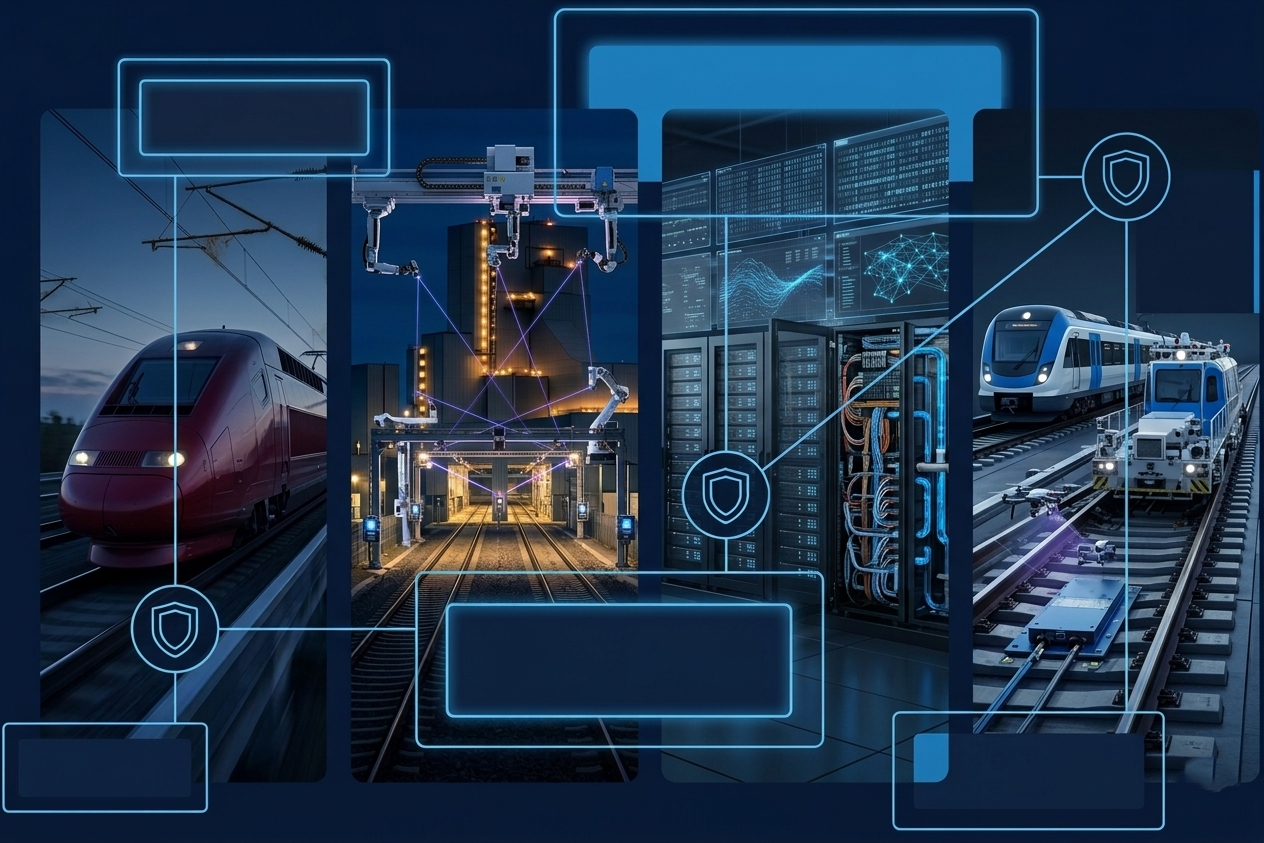
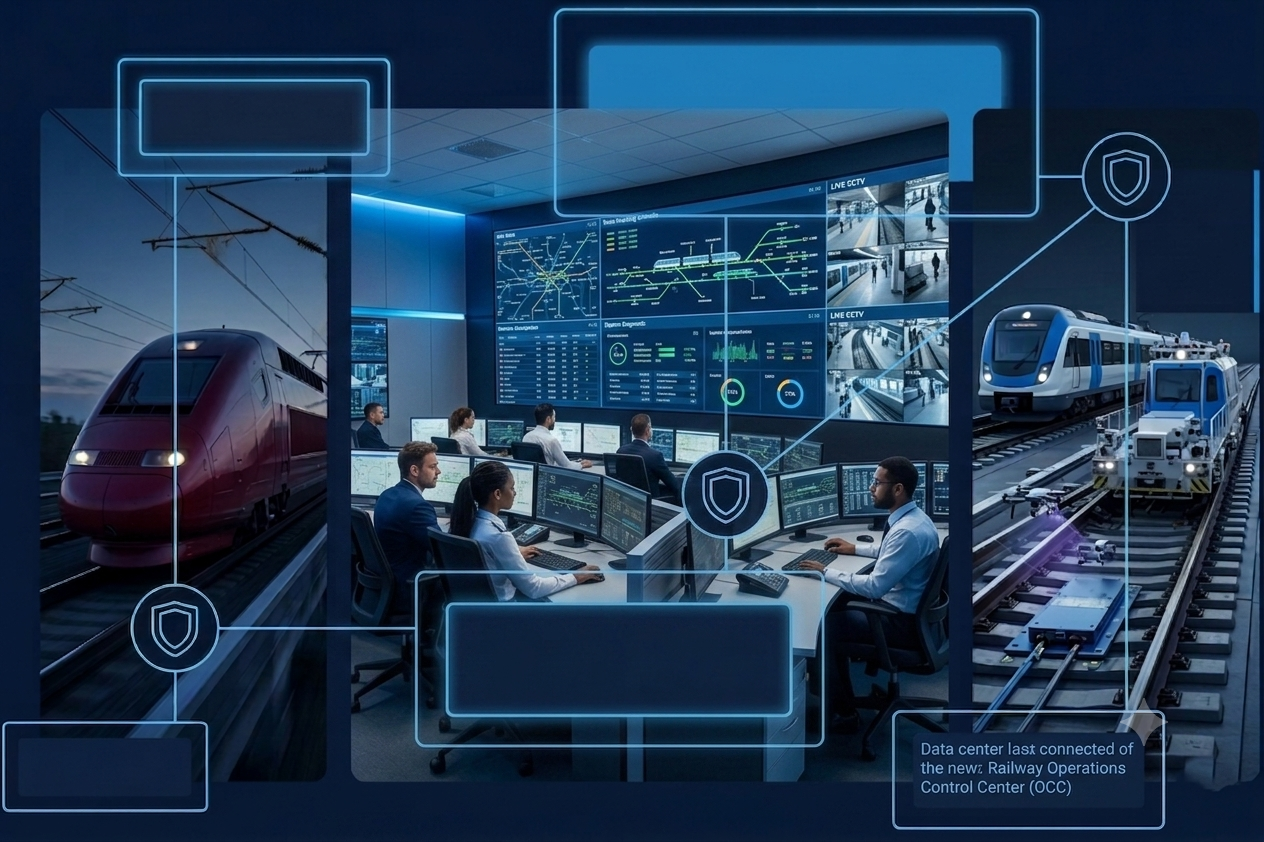
fix scroll layout and update content

diff --git a/src/components/Layout/Header.jsx b/src/components/Layout/Header.jsx
@@ -18,7 +18,6 @@ const Header = () => {
       const sections = ["home", "solutions", "about", "join", "contact"];
       const scrollPosition = window.scrollY + 100;
 
-      // التحقق من أن المستخدم في أعلى الصفحة
       if (window.scrollY < 50) {
         setActiveSection("home");
         return;
@@ -50,7 +49,6 @@ const Header = () => {
     setActiveSection("home");
   };
 
-  // إغلاق القوائم عند النقر خارجها
   useEffect(() => {
     const handleClickOutside = (event) => {
       if (isLangOpen && !event.target.closest(".language-dropdown")) {
@@ -64,7 +62,6 @@ const Header = () => {
     return () => document.removeEventListener("mousedown", handleClickOutside);
   }, [isLangOpen, isSolutionsOpen]);
 
-  // عناصر الـ Dropdown للحلول
   const solutionsDropdownItems = [
     { label: t("solutions.riskManagement"), href: "#solutions" },
     { label: t("solutions.verification"), href: "#solutions" },
@@ -79,7 +76,6 @@ const Header = () => {
     { key: "solutions", label: t("nav.solutions"), hasDropdown: true, href: "#solutions" },
     { key: "about", label: t("nav.about"), href: "#about" },
     { key: "join", label: t("nav.join"), href: "#join" },
-    { key: "contact", label: t("nav.contact"), href: "#contact" },
   ];
 
   return (
@@ -208,6 +204,7 @@ const Header = () => {
 
           {/* Right Section */}
           <div className="flex items-center gap-3">
+            {/* زر Contact Us الأساسي منسق بالجانب الأيمن */}
             <a
               href="#contact"
               className="hidden md:block bg-white text-[#1E4A76] px-9 py-3.5 rounded-md font-semibold text-[16px] hover:bg-gray-100 transition-all duration-300 hover:shadow-md"
@@ -215,39 +212,19 @@ const Header = () => {
               {t("nav.contact")}
             </a>
 
-            {/* Dark Mode Toggle Button */}
+            {/* Dark Mode Toggle */}
             <button
               onClick={toggle}
               className="p-2 text-white/80 hover:text-white rounded-lg hover:bg-white/10 transition-all duration-200"
               aria-label="Toggle dark mode"
             >
               {isDark ? (
-                <svg
-                  className="w-5 h-5"
-                  fill="none"
-                  stroke="currentColor"
-                  viewBox="0 0 24 24"
-                >
-                  <path
-                    strokeLinecap="round"
-                    strokeLinejoin="round"
-                    strokeWidth={2}
-                    d="M12 3v1m0 16v1m9-9h-1M4 12H3m15.364 6.364l-.707-.707M6.343 6.343l-.707-.707m12.728 0l-.707.707M6.343 17.657l-.707.707M16 12a4 4 0 11-8 0 4 4 0 018 0z"
-                  />
+                <svg className="w-5 h-5" fill="none" stroke="currentColor" viewBox="0 0 24 24">
+                  <path strokeLinecap="round" strokeLinejoin="round" strokeWidth={2} d="M12 3v1m0 16v1m9-9h-1M4 12H3m15.364 6.364l-.707-.707M6.343 6.343l-.707-.707m12.728 0l-.707.707M6.343 17.657l-.707.707M16 12a4 4 0 11-8 0 4 4 0 018 0z" />
                 </svg>
               ) : (
-                <svg
-                  className="w-5 h-5"
-                  fill="none"
-                  stroke="currentColor"
-                  viewBox="0 0 24 24"
-                >
-                  <path
-                    strokeLinecap="round"
-                    strokeLinejoin="round"
-                    strokeWidth={2}
-                    d="M20.354 15.354A9 9 0 018.646 3.646 9.003 9.003 0 0012 21a9.003 9.003 0 008.354-5.646z"
-                  />
+                <svg className="w-5 h-5" fill="none" stroke="currentColor" viewBox="0 0 24 24">
+                  <path strokeLinecap="round" strokeLinejoin="round" strokeWidth={2} d="M20.354 15.354A9 9 0 018.646 3.646 9.003 9.003 0 0012 21a9.003 9.003 0 008.354-5.646z" />
                 </svg>
               )}
             </button>
@@ -259,12 +236,7 @@ const Header = () => {
                 className="flex items-center gap-1 px-2 py-1.5 text-white/80 hover:text-white transition-colors duration-200 rounded-lg hover:bg-white/10"
                 aria-label="Change language"
               >
-                <svg
-                  className="w-5 h-5"
-                  fill="none"
-                  stroke="currentColor"
-                  viewBox="0 0 24 24"
-                >
+                <svg className="w-5 h-5" fill="none" stroke="currentColor" viewBox="0 0 24 24">
                   <circle cx="12" cy="12" r="10" stroke="currentColor" strokeWidth="1.5" />
                   <line x1="2" y1="12" x2="22" y2="12" stroke="currentColor" strokeWidth="1.5" />
                   <path d="M12 2a15.3 15.3 0 0 1 4 10 15.3 15.3 0 0 1-4 10 15.3 15.3 0 0 1-4-10 15.3 15.3 0 0 1 4-10z" stroke="currentColor" strokeWidth="1.5" />
@@ -272,67 +244,20 @@ const Header = () => {
                 <span className="text-sm font-medium">
                   {i18n.language === "en" ? "EN" : i18n.language === "ar" ? "AR" : "DE"}
                 </span>
-                <svg
-                  className={`w-3 h-3 transition-transform duration-200 ${
-                    isLangOpen ? "rotate-180" : ""
-                  }`}
-                  fill="none"
-                  stroke="currentColor"
-                  viewBox="0 0 24 24"
-                >
+                <svg className={`w-3 h-3 transition-transform duration-200 ${isLangOpen ? "rotate-180" : ""}`} fill="none" stroke="currentColor" viewBox="0 0 24 24">
                   <path strokeLinecap="round" strokeLinejoin="round" strokeWidth={2} d="M19 9l-7 7-7-7" />
                 </svg>
               </button>
 
               {isLangOpen && (
                 <div className="absolute right-0 mt-2 w-36 bg-white dark:bg-gray-800 rounded-lg shadow-lg overflow-hidden z-50 border border-gray-200 dark:border-gray-700">
-                  <button
-                    onClick={() => { i18n.changeLanguage("en"); setIsLangOpen(false); }}
-                    className={`w-full px-4 py-2 text-left text-sm hover:bg-gray-100 dark:hover:bg-gray-700 transition-colors ${
-                      i18n.language === "en"
-                        ? "bg-gray-100 dark:bg-gray-700 text-[#1E4A76] dark:text-[#5A9AC5] font-semibold"
-                        : "text-gray-700 dark:text-gray-300"
-                    }`}
-                  >
-                    🇬🇧 English
-                  </button>
-                  <button
-                    onClick={() => { i18n.changeLanguage("ar"); setIsLangOpen(false); }}
-                    className={`w-full px-4 py-2 text-left text-sm hover:bg-gray-100 dark:hover:bg-gray-700 transition-colors ${
-                      i18n.language === "ar"
-                        ? "bg-gray-100 dark:bg-gray-700 text-[#1E4A76] dark:text-[#5A9AC5] font-semibold"
-                        : "text-gray-700 dark:text-gray-300"
-                    }`}
-                  >
-                    🇸🇦 العربية
-                  </button>
-                  <button
-                    onClick={() => { i18n.changeLanguage("de"); setIsLangOpen(false); }}
-                    className={`w-full px-4 py-2 text-left text-sm hover:bg-gray-100 dark:hover:bg-gray-700 transition-colors ${
-                      i18n.language === "de"
-                        ? "bg-gray-100 dark:bg-gray-700 text-[#1E4A76] dark:text-[#5A9AC5] font-semibold"
-                        : "text-gray-700 dark:text-gray-300"
-                    }`}
-                  >
-                    🇩🇪 Deutsch
-                  </button>
+                  <button onClick={() => { i18n.changeLanguage("en"); setIsLangOpen(false); }} className={`w-full px-4 py-2 text-left text-sm hover:bg-gray-100 dark:hover:bg-gray-700 transition-colors ${i18n.language === "en" ? "bg-gray-100 dark:bg-gray-700 text-[#1E4A76] font-semibold" : "text-gray-700 dark:text-gray-300"}`}>🇬🇧 English</button>
+                  <button onClick={() => { i18n.changeLanguage("ar"); setIsLangOpen(false); }} className={`w-full px-4 py-2 text-left text-sm hover:bg-gray-100 dark:hover:bg-gray-700 transition-colors ${i18n.language === "ar" ? "bg-gray-100 dark:bg-gray-700 text-[#1E4A76] font-semibold" : "text-gray-700 dark:text-gray-300"}`}>🇸🇦 العربية</button>
+                  <button onClick={() => { i18n.changeLanguage("de"); setIsLangOpen(false); }} className={`w-full px-4 py-2 text-left text-sm hover:bg-gray-100 dark:hover:bg-gray-700 transition-colors ${i18n.language === "de" ? "bg-gray-100 dark:bg-gray-700 text-[#1E4A76] font-semibold" : "text-gray-700 dark:text-gray-300"}`}>🇩🇪 Deutsch</button>
                 </div>
               )}
             </div>
 
-            {/* Mobile Menu Button */}
-            <button
-              onClick={() => setIsMenuOpen(!isMenuOpen)}
-              className="md:hidden p-1.5 text-white hover:text-white hover:bg-white/10 rounded-lg transition-colors"
-            >
-              <svg className="w-5 h-5" fill="none" stroke="currentColor" viewBox="0 0 24 24">
-                {isMenuOpen ? (
-                  <path strokeLinecap="round" strokeLinejoin="round" strokeWidth={2} d="M6 18L18 6M6 6l12 12" />
-                ) : (
-                  <path strokeLinecap="round" strokeLinejoin="round" strokeWidth={2} d="M4 6h16M4 12h16M4 18h16" />
-                )}
-              </svg>
-            </button>
           </div>
         </div>
 
@@ -348,9 +273,7 @@ const Header = () => {
                   setIsMenuOpen(false);
                 }}
                 className={`block py-2 transition-colors text-sm ${
-                  activeSection === item.key
-                    ? "text-white font-medium"
-                    : "text-white/70 hover:text-white"
+                  activeSection === item.key ? "text-white font-medium" : "text-white/70 hover:text-white"
                 }`}
               >
                 {item.label}

diff --git a/src/sections/Solutions.jsx b/src/sections/Solutions.jsx
@@ -20,16 +20,16 @@ const Solutions = () => {
 
   const solutions = [
     {
-      key: 'riskManagement',
-      slug: 'risk-management',
-      icon: BarChart3,
-      title: t('solutions.riskManagement'),
-      description: 'Identify, analyze, and mitigate risks effectively with advanced methodologies.',
-      color: '#1E4A76',
-      lightColor: '#1E4A76',
-      features: ['Risk Assessment', 'Mitigation Strategies', 'Compliance'],
-      metric: '98% Success Rate'
-    },
+      key: 'functionalSafety',
+      slug: 'functional-safety',
+      icon: Shield,
+      title: t('solutions.functionalSafety'),
+      description: 'Implement safety-critical systems that protect lives and assets.',
+      color: '#3A7CA5',
+      lightColor: '#3A7CA5',
+      features: ['Safety Cases', 'Hazard Analysis', 'SIL Assessment'],
+      metric: 'IEC 61508'
+    },  
     {
       key: 'verification',
       slug: 'verification-validation',
@@ -40,20 +40,9 @@ const Solutions = () => {
       lightColor: '#2A5F8A',
       features: ['Validation', 'Certification', 'Auditing'],
       metric: 'ISO 17025'
-    },
+    },  
     {
-      key: 'functionalSafety',
-      slug: 'functional-safety',
-      icon: Shield,
-      title: t('solutions.functionalSafety'),
-      description: 'Implement safety-critical systems that protect lives and assets.',
-      color: '#3A7CA5',
-      lightColor: '#3A7CA5',
-      features: ['Safety Cases', 'Hazard Analysis', 'SIL Assessment'],
-      metric: 'IEC 61508'
-    },
-    {
-      key: 'rams',
+      key: 'ram',
       slug: 'rams-management',
       icon: TrendingUp,
       title: t('solutions.rams'),
@@ -63,28 +52,21 @@ const Solutions = () => {
       features: ['RAMS Analysis', 'Lifecycle Management', 'Performance'],
       metric: 'EN 50126'
     },
+
     {
-      key: 'cybersecurity',
-      slug: 'cybersecurity',
-      icon: Server,
-      title: t('solutions.cybersecurity'),
-      description: 'Protect critical infrastructure from evolving cyber threats.',
-      color: '#5A9AC5',
-      lightColor: '#5A9AC5',
-      features: ['Risk Assessment', 'Penetration Testing', 'NIS2 Compliance'],
-      metric: 'IEC 62443'
+      key: 'riskManagement',
+      slug: 'risk-management',
+      icon: BarChart3,
+      title: t('solutions.riskManagement'),
+      description: 'Identify, analyze, and mitigate risks effectively with advanced methodologies.',
+      color: '#1E4A76',
+      lightColor: '#1E4A76',
+      features: ['Risk Assessment', 'Mitigation Strategies', 'Compliance'],
+      metric: '98% Success Rate'
     },
-    {
-      key: 'software',
-      slug: 'software',
-      icon: CircuitBoard,
-      title: t('solutions.software'),
-      description: 'Custom software solutions for railway safety and monitoring systems.',
-      color: '#6AB0D5',
-      lightColor: '#6AB0D5',
-      features: ['Safety Systems', 'Analytics Dashboards', 'Integration'],
-      metric: 'Agile Certified'
-    }
+
+
+
   ]
 
   return (

diff --git a/src/sections/Industries.jsx b/src/sections/Industries.jsx
@@ -21,26 +21,14 @@ const Industries = () => {
       features: ['EN 50126/8/9', 'CENELEC', 'RAMS']
     },
     {
-      name: t('industries.energy'),
-      icon: Zap,
-      description: 'Cybersecurity and automation for power plants and grids',
-      color: '#2A5F8A',
-      features: ['NIS2', 'IEC 62443', 'SCADA']
+      name: t('industries.automotive'),
+      icon: Car,
+      description: 'Functional safety for vehicle systems',
+      color: '#6AB0D5',
+      features: ['ISO 26262', 'Automotive SPICE', 'Cybersecurity']
     },
-    {
-      name: t('industries.logistics'),
-      icon: Truck,
-      description: 'Digital transformation and security for warehouse operations',
-      color: '#3A7CA5',
-      features: ['IoT Security', 'Real-time Tracking', 'Automation']
-    },
-    {
-      name: t('industries.software'),
-      icon: Monitor,
-      description: 'Custom software solutions for safety and monitoring systems',
-      color: '#5A9AC5',
-      features: ['Safety Software', 'Embedded Systems', 'Cloud Solutions']
-    },
+
+
     {
       name: t('industries.manufacturing'),
       icon: Factory,
@@ -48,13 +36,7 @@ const Industries = () => {
       color: '#4A8AB5',
       features: ['Machinery Directive', 'Safety PLC', 'Risk Assessment']
     },
-    {
-      name: t('industries.automotive'),
-      icon: Car,
-      description: 'Functional safety and cybersecurity for vehicle systems',
-      color: '#6AB0D5',
-      features: ['ISO 26262', 'Automotive SPICE', 'Cybersecurity']
-    }
+
   ]
 
   return (

diff --git a/src/components/Layout/Footer.jsx b/src/components/Layout/Footer.jsx
@@ -1,13 +1,11 @@
 import React from 'react'
 import { useTranslation } from 'react-i18next'
-import { Mail, Phone, MapPin, ArrowUp } from 'lucide-react'
+import { Mail, Phone, MapPin } from 'lucide-react' // قمنا بحذف ArrowUp لأننا لن نحتاجها هنا
 
 const Footer = () => {
   const { t } = useTranslation()
   
-  const scrollToTop = () => {
-    window.scrollTo({ top: 0, behavior: 'smooth' })
-  }
+  
 
   return (
     <footer className="bg-[#0A2B4E] text-white pt-16 pb-8 mt-auto">
@@ -98,13 +96,7 @@ const Footer = () => {
         </div>
       </div>
       
-      <button 
-        onClick={scrollToTop}
-        className="fixed bottom-6 right-6 bg-[#1E4A76] text-white p-3 rounded-full shadow-lg hover:bg-[#2A5F8A] transition-all duration-300 hover:scale-110 group z-50"
-        aria-label="Scroll to top"
-      >
-        <ArrowUp size={20} className="group-hover:-translate-y-0.5 transition-transform" />
-      </button>
+      
     </footer>
   )
 }

diff --git a/src/sections/Hero.jsx b/src/sections/Hero.jsx
@@ -142,7 +142,7 @@ const Hero = () => {
               </button>
             </div>
           </div>
-
+{/* CHNGE CLASS NAME TO SHOW THE WHOLE PIC BUT BIG AND CUTED ''''w-full h-72 md:h-112 object-cover relative z-10'''' */}
           {/* RIGHT SIDE - Visual Elements */}
           <div className={`relative flex flex-col justify-center ${isVisible ? "animate-fadeInRight" : "opacity-0"}`}>
             
@@ -152,7 +152,7 @@ const Hero = () => {
                 <img
                   src="/hero.png"
                   alt="High-speed railway infrastructure"
-                  className="w-full h-72 md:h-112 object-cover relative z-10"
+                  className=" w-full h-full object-cover block relative z-10 rounded-xl"   
                   onError={(e) => {
                     e.target.src = "https://images.unsplash.com/photo-1473341304170-971d5b5ddbe4?w=600&h=450&fit=crop";
                   }}

diff --git a/src/sections/Team.jsx b/src/sections/Team.jsx
@@ -43,8 +43,8 @@ const Team = () => {
       {
         id: 3,
         name: 'Aisha Yousef',
-        role: 'Technical Director',
-        specialty: 'Software Architecture & DevOps',
+        role: 'HR',
+        specialty: 'Human Resourses',
         image: aishaImage,
         email: '[email redacted]',
         linkedin: '#',